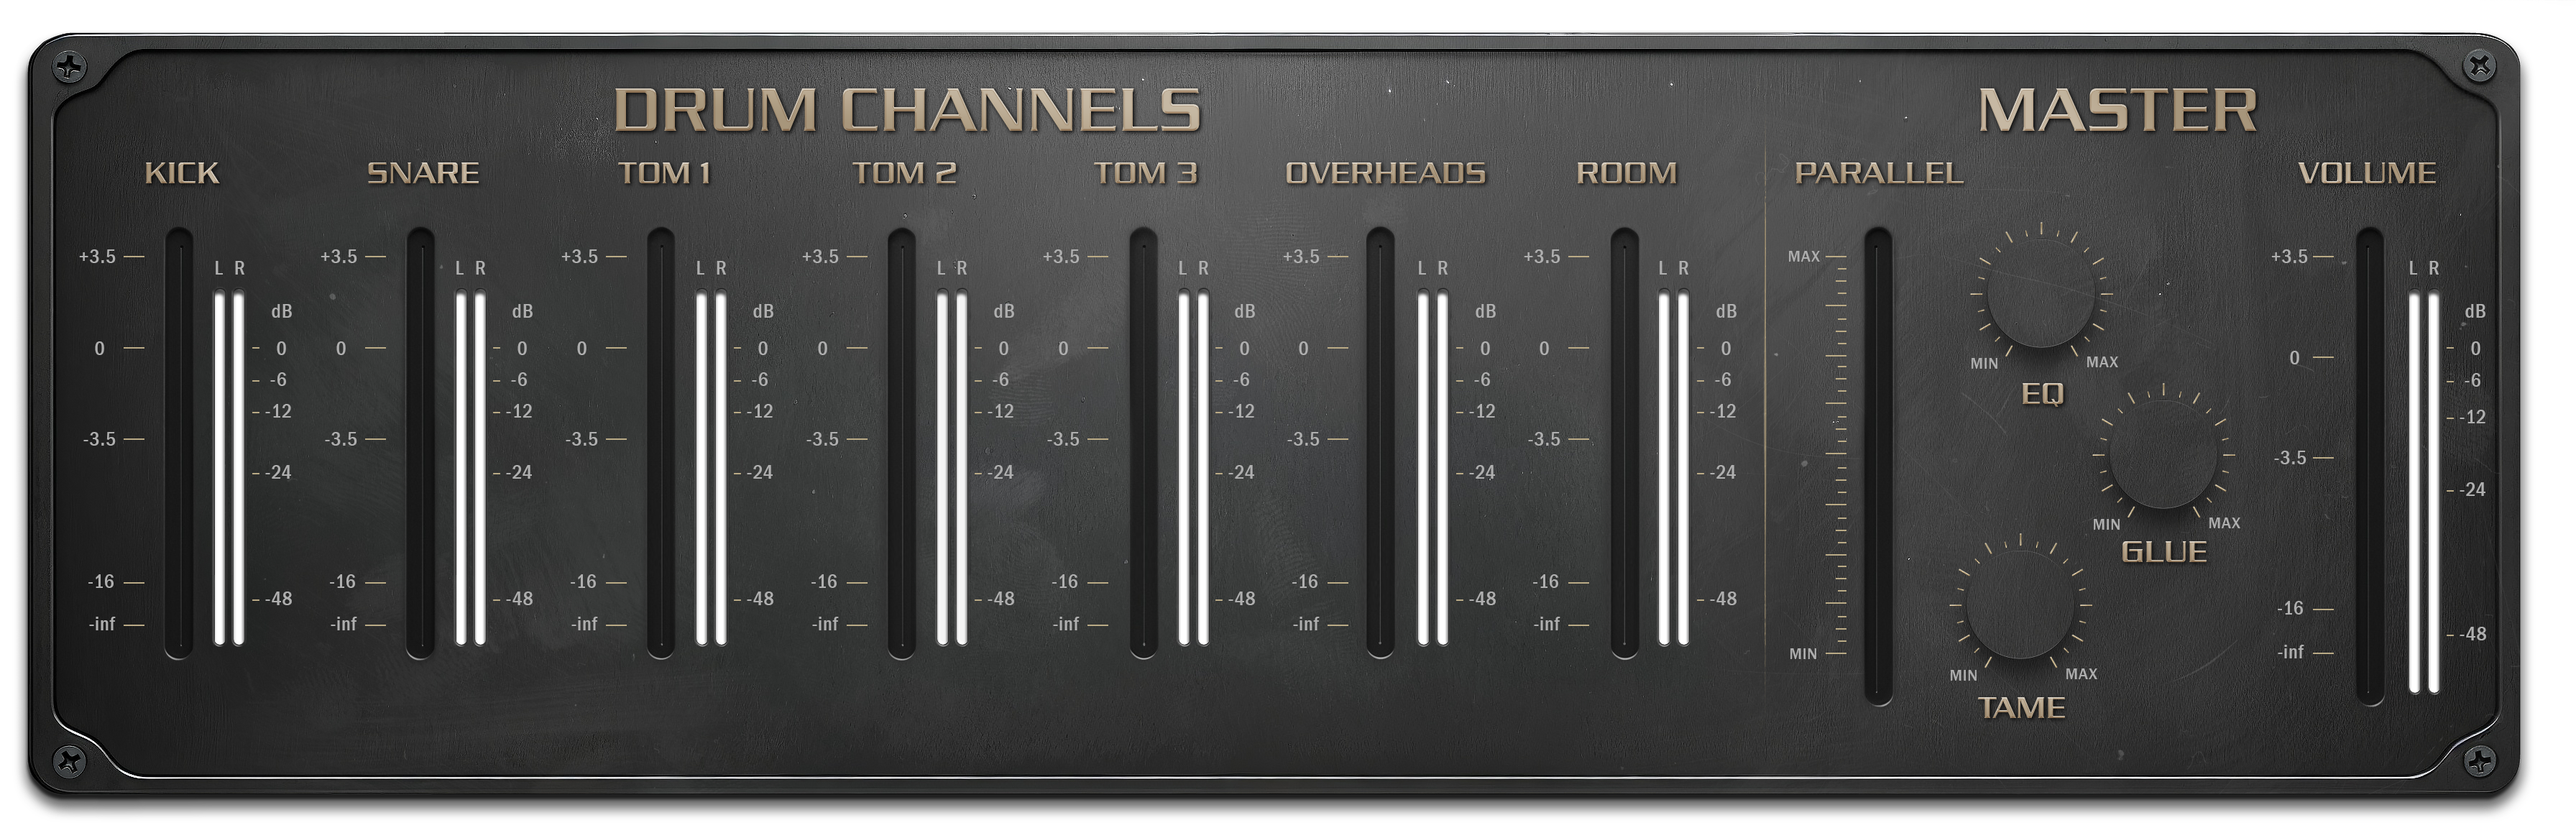
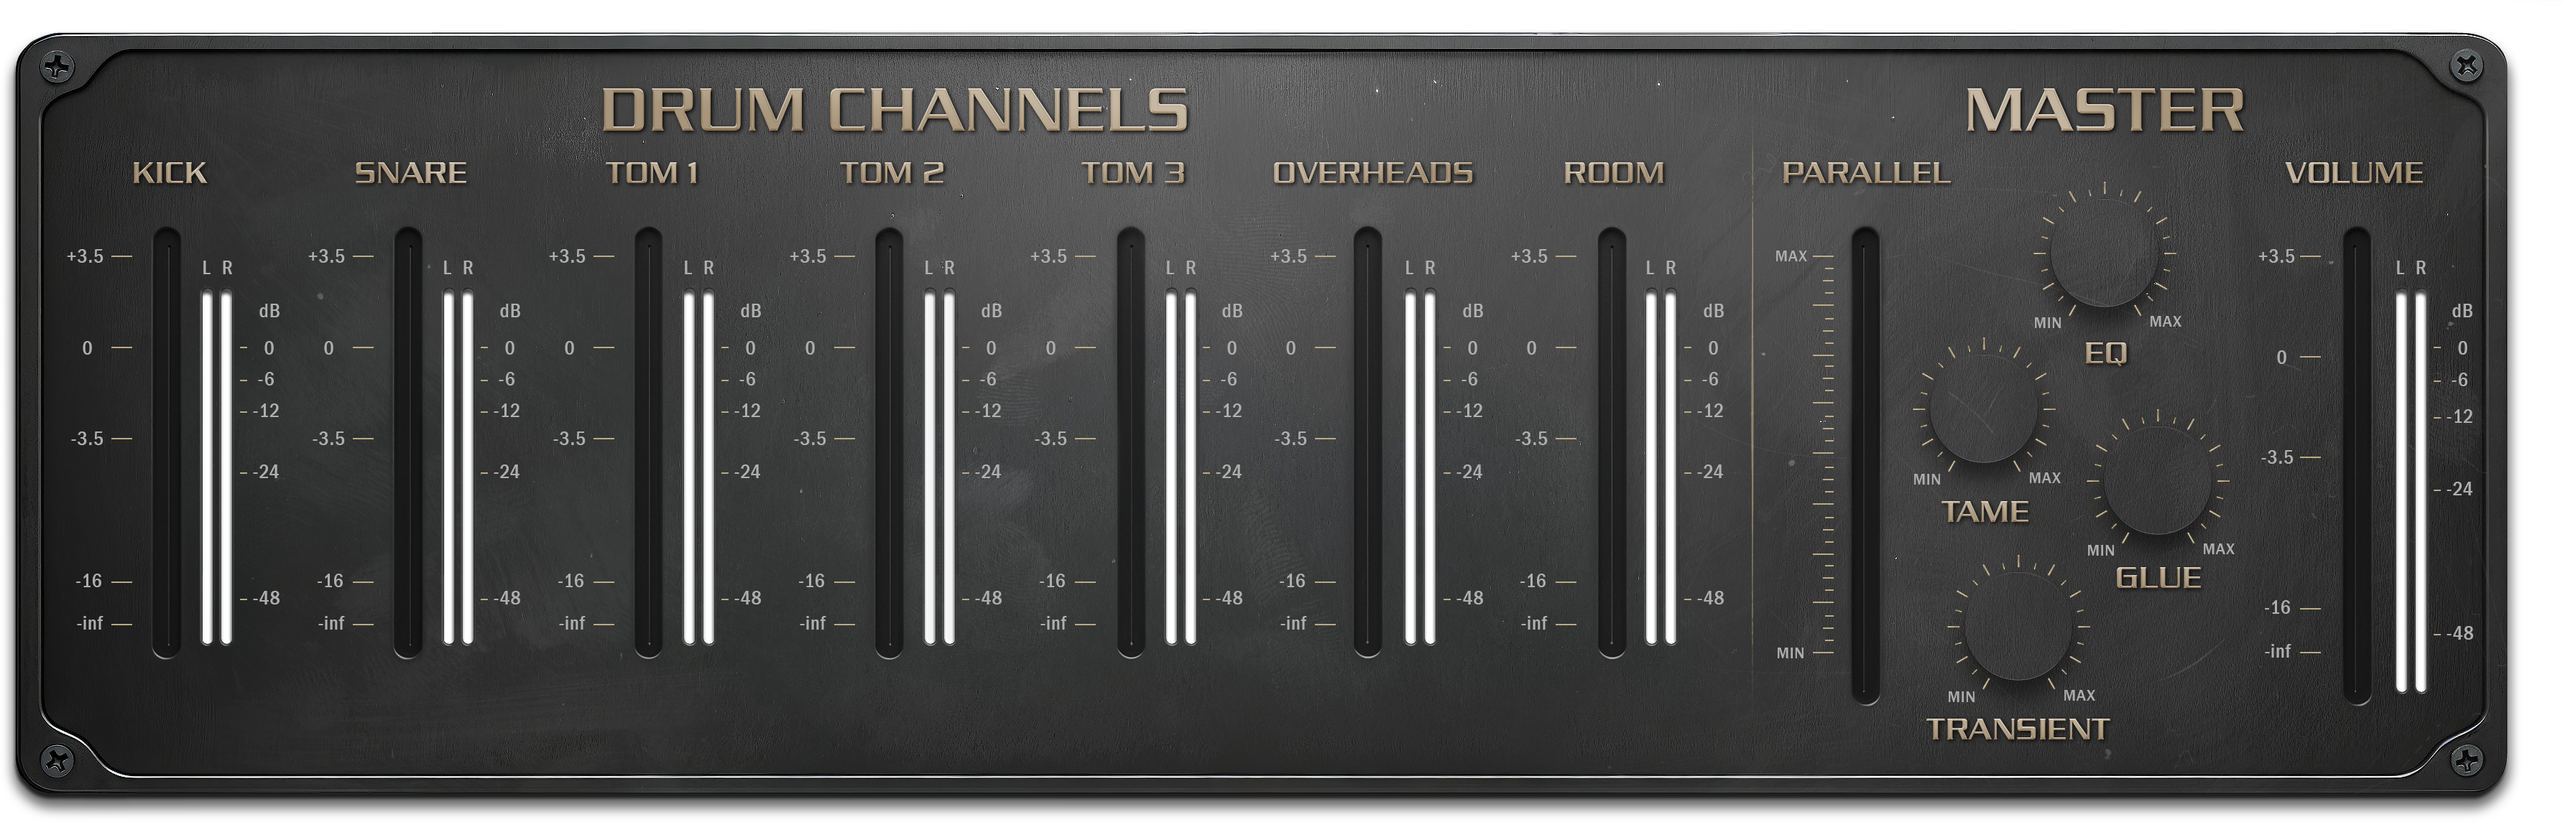
Update main mixer panel

diff --git a/My project/TemplateProject.cpp b/My project/TemplateProject.cpp
@@ -6255,21 +6255,21 @@ TemplateProject::TemplateProject(const InstanceInfo& info)
 
             // ДЕФОЛТ ЗНАЧЕНИЕ В ОБЩЕМ ЗАДАЕТСЯ ЧЕРЕЗ ЗАПЯТУЮ. ПРИМЕР: ", 0.5f"
             // ========================================================================================================== EQ KNOB ==========================================================================================================
-            const IRECT eqknob = IRECT::MakeXYWH(1085.5f, 534.5f, 81.f, 81.f);
+            const IRECT eqknob = IRECT::MakeXYWH(1147.5f, 433.0f, 81.f, 81.f);
             auto* pEqKnob = pGraphics->AttachControl(new CBodyPointerKnob(eqknob, body, pointer, kMasterEQ, -150.0, +150.0, 0.0));
 
             // ========================================================================================================== GLUE KNOB ==========================================================================================================
-            const IRECT glueknob = IRECT::MakeXYWH(1135.5f, 624.5f, 81.f, 81.f);
+            const IRECT glueknob = IRECT::MakeXYWH(1175.5f, 554.5f, 81.f, 81.f);
             auto* pGlueKnob = pGraphics->AttachControl(new CBodyPointerKnob(glueknob, body, pointer, kMasterGlue, -150.0, +150.0, 0.0));
             
             // ========================================================================================================== TAME KNOB ==========================================================================================================
-            const IRECT tameknob = IRECT::MakeXYWH(1185.5f, 534.5f, 81.f, 81.f);
+            const IRECT tameknob = IRECT::MakeXYWH(1083.0f, 516.5f, 81.f, 81.f);
             auto* pTameKnob = pGraphics->AttachControl(new CBodyPointerKnob(tameknob, body, pointer, kMasterTame, -150.0, +150.0, 0.0));
             
 
 
             // Позиции — рядом с другими мастер-крутилками, при необходимости подправьте
-            const IRECT transientKnobR = IRECT::MakeXYWH(1135.5f, 444.5f, 81.f, 81.f);
+            const IRECT transientKnobR = IRECT::MakeXYWH(1101.5f, 631.5f, 81.f, 81.f);
             auto* pTransientKnob = pGraphics->AttachControl(
                 new CBodyPointerKnob(transientKnobR, body, pointer, kMasterTransient, -150.0, +150.0, 0.5),
                 kCtrlTagTransientKnob);
